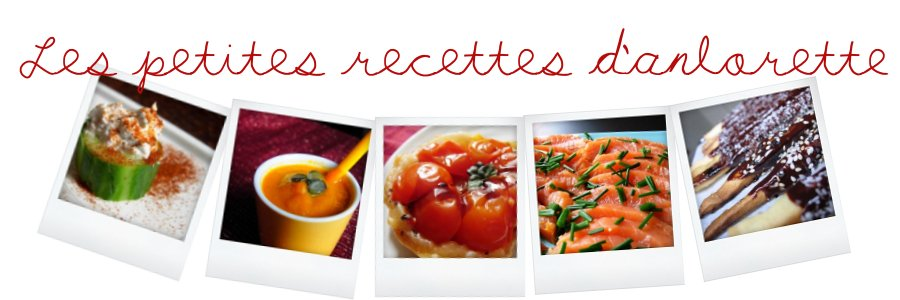
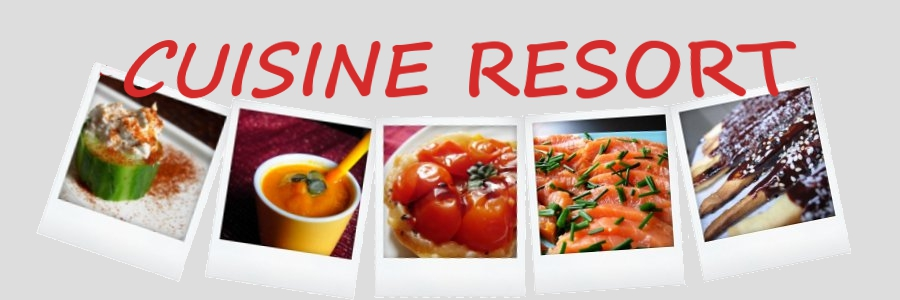
Mise à jour de la barre de navigation.

diff --git a/CodeIgniter/css/style.css b/CodeIgniter/css/style.css
@@ -1,5 +1,5 @@
 body {
-	background-color: #3D6328;
+	background-color: #dddddd;
 	font-family:  Arial, sans-serif;
 }
 
@@ -108,12 +108,42 @@ label {
 	
 #navigation {
 	border-style: solid;
-	border-color: gray;
+	border-color: #dddddd;
 	margin-left: auto;
 	margin-right: auto;
 	text-align: center;
 	width: 600px;
 	border-radius: 0 0 20px 20px;
+}
+
+table{
+	background-color: rgba(255, 255, 255, 0.8);
+	border-radius: 0 0 10px 10px;
+	width:600px;
+	margin-left:auto;
+	margin-right: auto;
+	
+}
+
+#nav
+{
+	background-color: rgba(0,0,0,0);
+	border-radius: 8px;
+}
+
+#nav a
+{
+	color: black;
+	text-decoration: none;
+}
+
+#nav:hover{
+	transition: all 1s;
+	-moz-transition: all 1s; /* Firefox 4 */
+	-webkit-transition: all 1s; /* Safari and Chrome */
+	-o-transition: all 1s; /* Opera */
+	background-color: rgba(150,150,150,1);
+	
 }
 	
 #contenu {
@@ -130,6 +160,14 @@ label {
 
 #accueil h1  {
 	text-align: center;
+}
+
+#navigation 
+{
+	display:inline;
+}
+.nav {
+	background: white;
 }
 
 fieldset.info {
